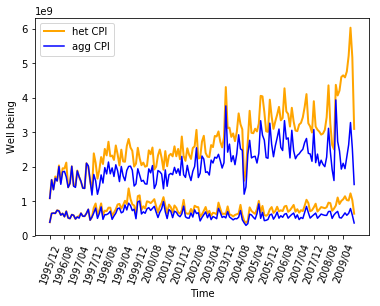
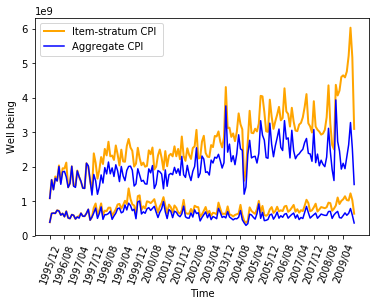
changed legend

Changed region(s): [[0.1737, 0.0588, 0.4342, 0.2059]]

diff --git a/analysis/8_evolution_combined.py b/analysis/8_evolution_combined.py
@@ -33,8 +33,8 @@ for i in [10,90]:
 # figure for poor
 
 
-plt.plot(real_10['time'][1:-1], real_10['exp_p1-p10_het'][1:-1], label="het CPI ",color='orange',linewidth=2, scalex =False)
-plt.plot( real_10['time'][1:-1], real_10_1['exp_p1-p10_het'][1:-1], label="agg CPI",color='blue')
+plt.plot(real_10['time'][1:-1], real_10['exp_p1-p10_het'][1:-1], label="Item-stratum CPI ",color='orange',linewidth=2, scalex =False)
+plt.plot( real_10['time'][1:-1], real_10_1['exp_p1-p10_het'][1:-1], label="Aggregate CPI",color='blue')
 plt.legend(loc=2)
 plt.plot(real_90['time'][1:-1], real_90['exp_p90-p100_het'][1:-1], label="het CPI ",color='orange',linewidth=2, scalex =False)
 plt.plot( real_90['time'][1:-1], real_90_1['exp_p90-p100_het'][1:-1], label="agg CPI",color='blue')
